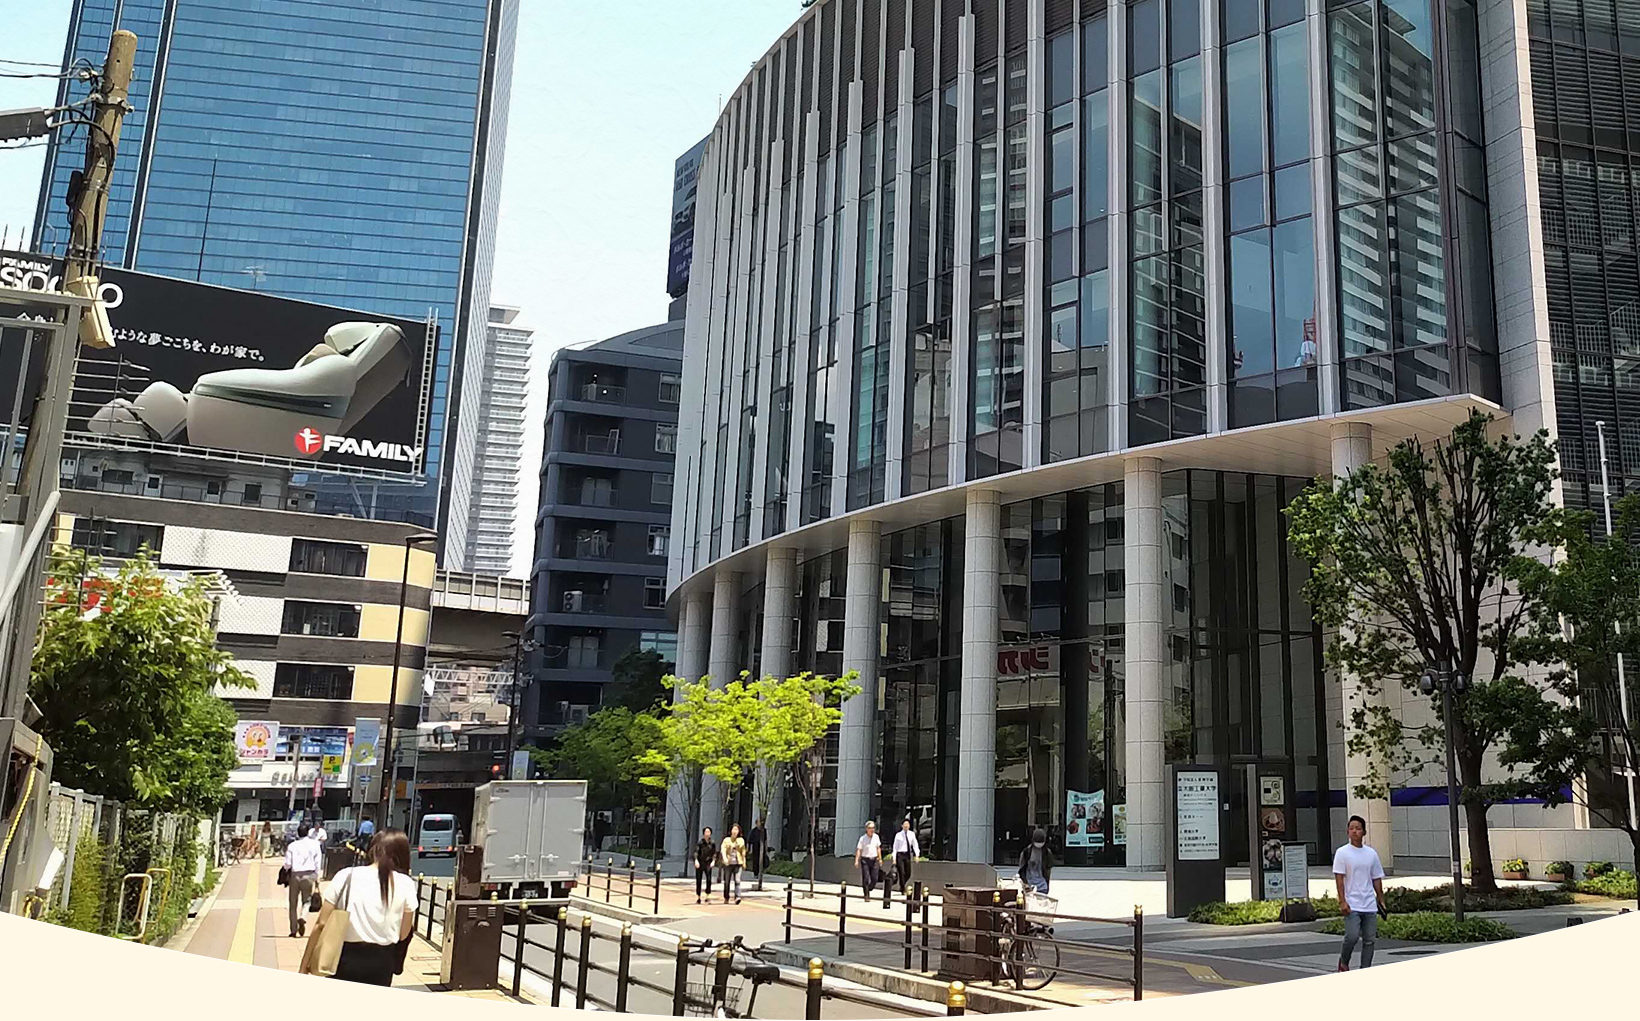
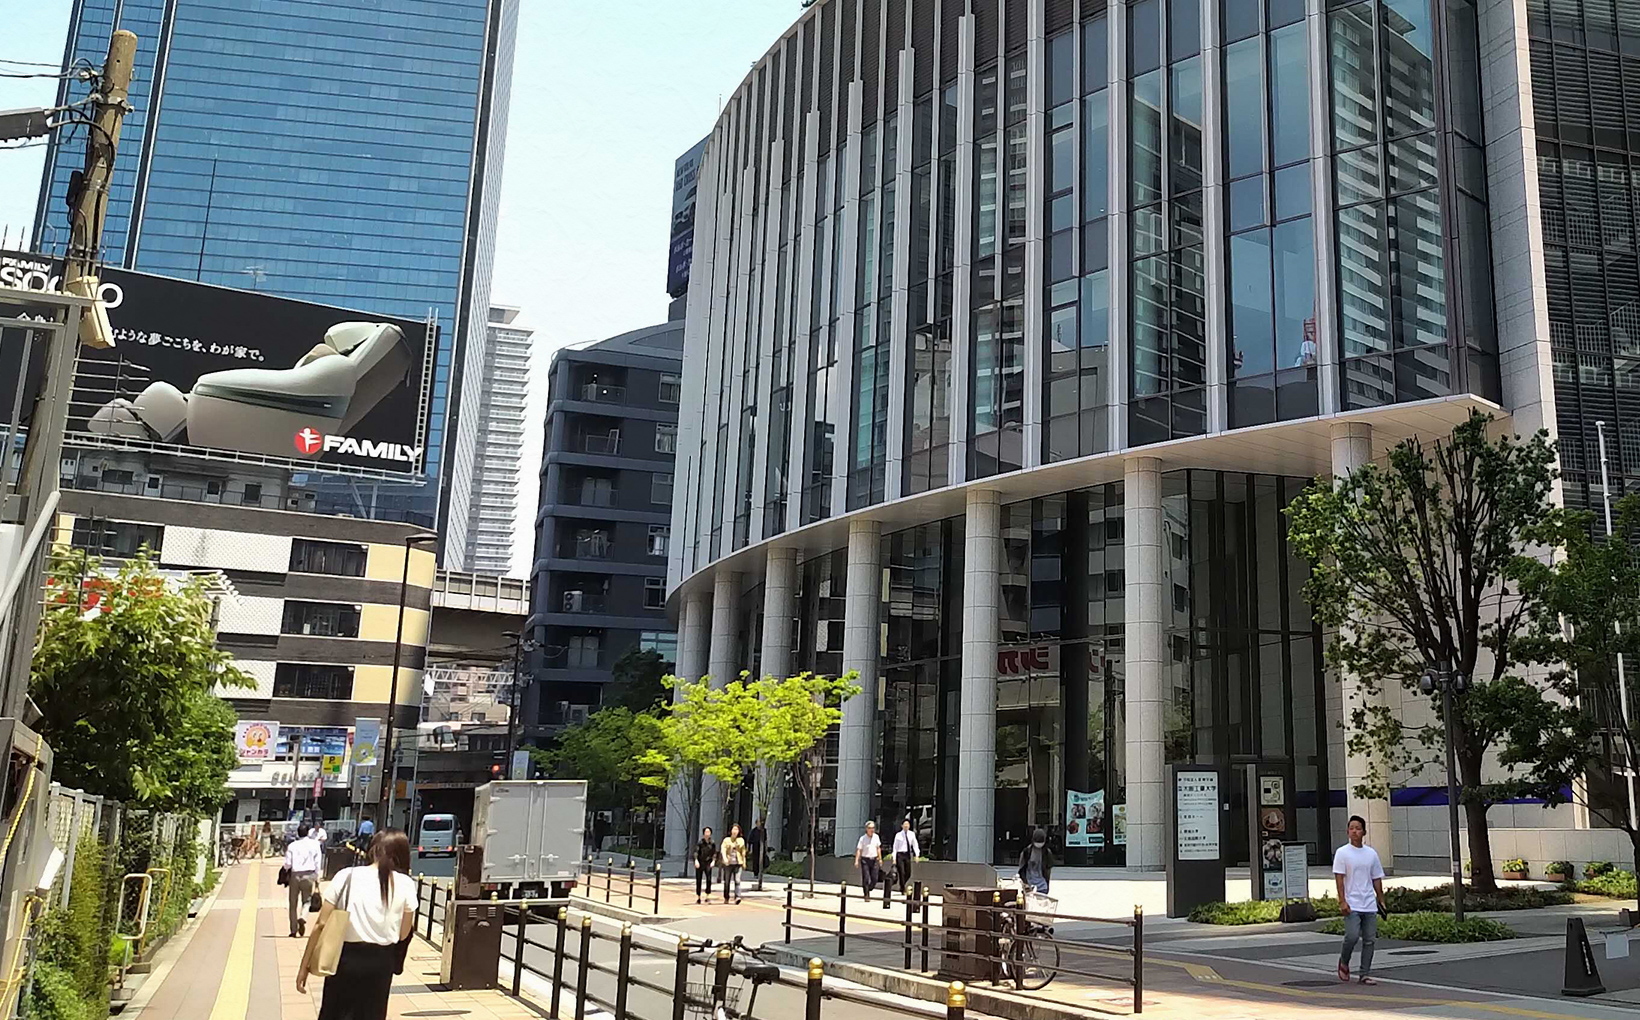
背景カーブ

diff --git a/scss/global/_base.scss b/scss/global/_base.scss
@@ -4,7 +4,11 @@ html {
 body {
   background: $base-color;
   color: $body-fontcolor;
-  font-size: 1.125rem;
+  font-size: 1rem;
+
+  @include tab {
+    font-size: 1.125rem;
+  }
 }
 
 // headline style
@@ -55,38 +59,6 @@ h2 {
   }
 }
 */
-.f-bg--maincolor {
-  position: relative;
-  padding-top: 176px;
-  padding-bottom: 160px;
-  &::before {
-    display: block;
-    content: "";
-    position: absolute;
-    top: 0;
-    margin: auto;
-    width: 100vw;
-    height: 100%;
-    z-index: -1;
-    background: $main-color;
-  }
-}
-.f-bg--maincolor-lignt {
-  position: relative;
-  padding-top: 176px;
-  padding-bottom: 160px;
-  &::before {
-    display: block;
-    content: "";
-    position: absolute;
-    top: 0;
-    margin: auto;
-    width: 100vw;
-    height: 100%;
-    z-index: -1;
-    background: $main-color-light;
-  }
-}
 
 // entry
 .entry {
@@ -98,10 +70,54 @@ h2 {
       display: none;
     }
   }
+  .entry-content > *,
+  .entry-summary > * {
+    margin: inherit;
+  }
 }
 .entry-content{
   .l-container {
     max-width: 1260px;
     margin: 0 auto;
+  }
+}
+
+// utility
+.u-arch {
+  @include arch-min;
+
+  @include pc {
+    @include arch-wide
+  }
+}
+.u-bg {
+  position: relative;
+  padding-bottom: 64px;
+
+  @include pc {
+    padding-bottom: 100px;
+  }
+}
+.u-bg--basecolor {
+    background: $base-color;
+}
+.u-bg--maincolor {
+    background: $main-color;
+}
+.u-bg--maincolor-lignt {
+    background: $main-color-light;
+}
+.u-arch--btm-maincolor {
+  position: relative;
+
+  &::after {
+    display: block;
+    content: '';
+    position: absolute;
+    bottom: 0;
+    width: 100%;
+    height: 200px;
+    background: $main-color;
+    z-index: -1;
   }
 }

diff --git a/scss/global/_rule.scss b/scss/global/_rule.scss
@@ -8,3 +8,48 @@ $black: #000;
 $white: #fff;
 $ff-mplus: 'M PLUS 1p';
 $ff-base: 'Noto Sans JP';
+
+//Misxin
+$widepc: 1379px;
+$pc: 1168px; // PC
+$tab: 768px; // タブレット
+$sp: 600px;  // スマホ
+
+@mixin widepc {
+  @media (min-width: ($widepc)) {
+    @content;
+  }
+}
+@mixin pc {
+  @media (min-width: ($pc)) {
+    @content;
+  }
+}
+@mixin tab {
+  @media (min-width: ($tab)) {
+    @content;
+  }
+}
+@mixin sp {
+  @media (min-width: ($sp)) {
+    @content;
+  }
+}
+
+@mixin arch-wide {
+  border-bottom-right-radius: 1160px 300px;
+  border-bottom-left-radius: 1160px 300px;
+  margin-left: -200px;
+  margin-right: -200px;
+  padding-left: 200px;
+  padding-right: 200px;
+}
+
+@mixin arch-min {
+  border-bottom-right-radius: 760px 300px;
+  border-bottom-left-radius: 760px 300px;
+  margin-left: -200px;
+  margin-right: -200px;
+  padding-left: 200px;
+  padding-right: 200px;
+}

diff --git a/scss/project/_front-page.scss b/scss/project/_front-page.scss
@@ -1,16 +1,40 @@
 @charset "utf-8";
 #post-6 {
   .entry-content {
-    max-width: 100%;
+    max-width: inherit;
     margin: 0 auto;
     padding: 0;
     
     > * {
-      max-width: 100%;
+      max-width: inherit;
     }
-    .l-container {
-      max-width: 1260px;
-      margin: 0 auto;
+    @include pc {
+      .l-container {
+        max-width: 1260px;
+        margin: 0 auto;
+      }
+    }
+    > .u-arch {
+      @include arch-min;
+    
+      @include pc {
+        @include arch-wide
+      }
+    }
+    .wp-block-columns {
+      justify-content: center;
+    }
+    .wp-block-column {
+      margin-right: 24px;
+      margin-left: 24px;
+
+      @include sp {
+        flex-basis: calc(50% - 48px);
+      }
+
+      @include pc {
+        max-width: 630px;
+      }
     }
   }
   .l-gmap {

diff --git a/scss/global/_header.scss b/scss/global/_header.scss
@@ -1,6 +1,17 @@
 @charset "utf-8";
 #masthead {
-  min-height: 1021px;
-  background: url(../images/img_mainvisual.jpg) center top no-repeat;
+  height: 520px;
+  padding-top: 160px;
+  background: url(../images/img_mainvisual.jpg) center no-repeat;
   background-size: cover;
+  @include arch-min;
+
+  @include tab {
+    height: 720px;
+  }
+  @include pc {
+    height: 100vh;
+    max-height: 1021px;
+    @include arch-wide;
+  }
 }

diff --git a/scss/global/_navigation.scss b/scss/global/_navigation.scss
@@ -4,14 +4,22 @@
   top: 0;
   left: 0;
   width: 100%;
-  min-height: 80px;
+  height: 48px;
   background-color: rgba($white,.6);
   z-index: 10;
   font-family: $ff-mplus, sans-serif;
-  font-size: 1.125rem;
+
+  @include tab {
+    height: 64px;
+  }
+
+  @include pc {
+    height: 80px;
+  }
 }
 .main-navigation {
   margin-top: 0;
+
   .menu-headermenu-container {
     display: block;
     max-width: 1260px;
